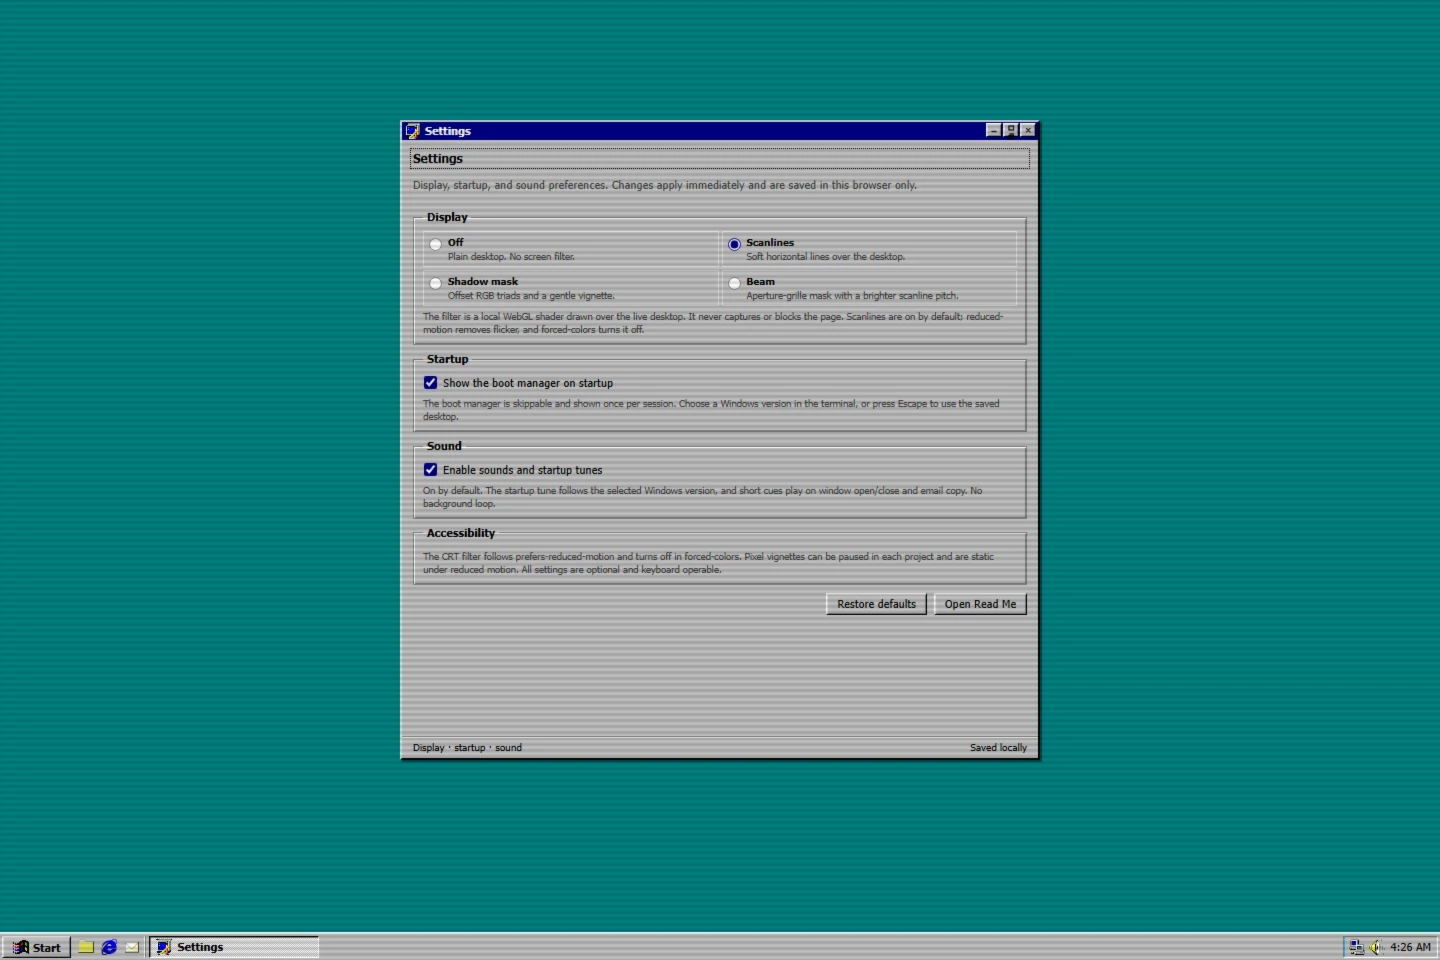
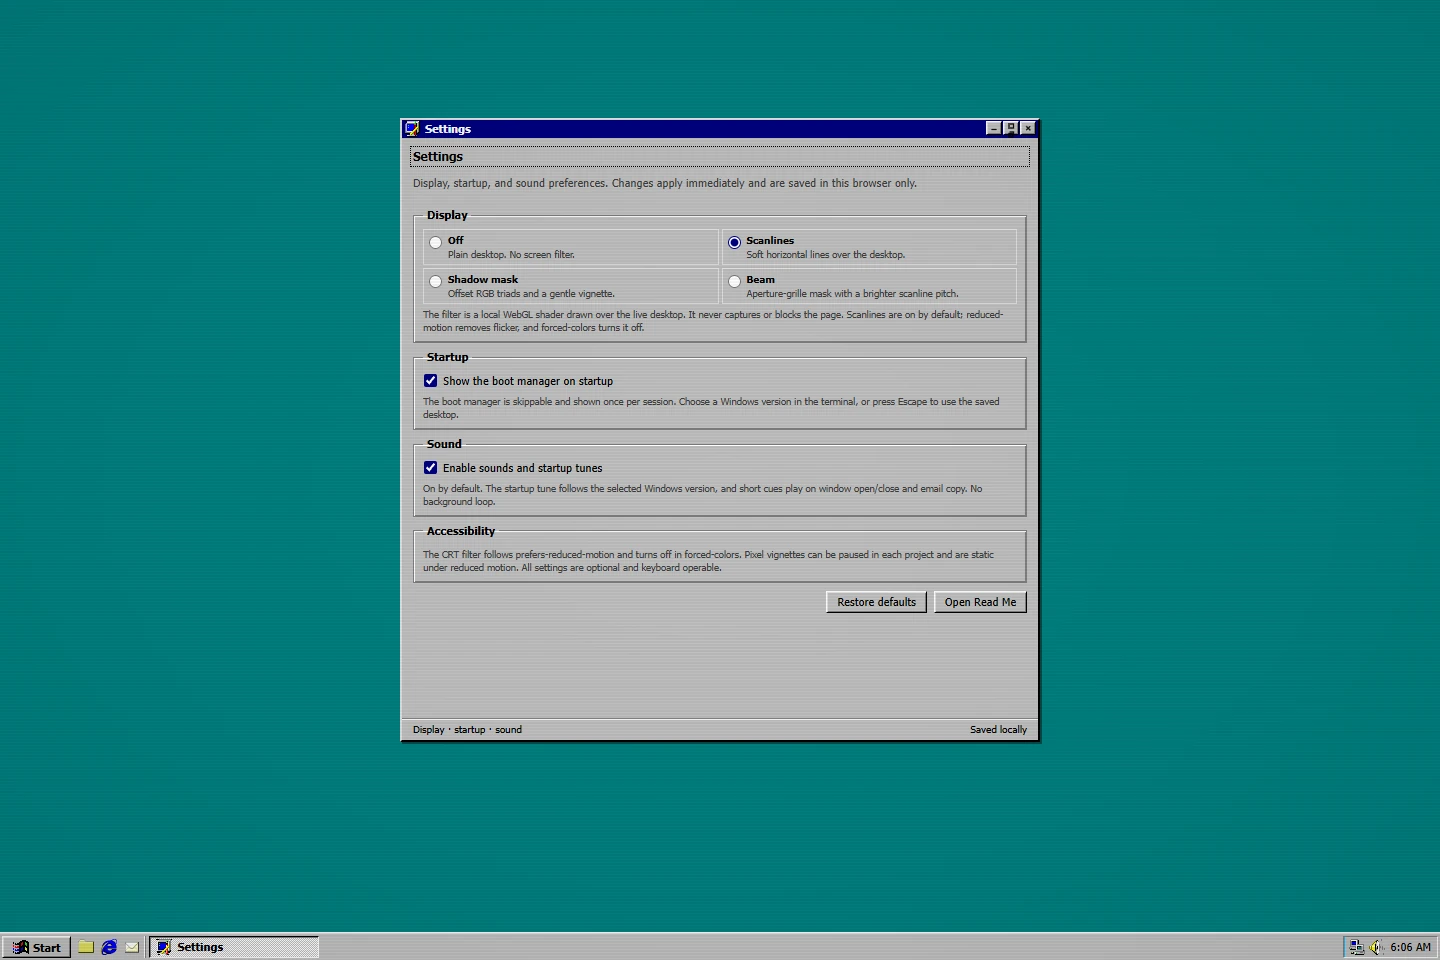
docs: lead with hero GIF and Windows-styled showcase
Move harness logos, badges, and navigation below the animated hero;
add packaged-runtime stills and an enlarged XP detail crop with lighter
scanlines; redraw badges as Classic, Luna, and Aero controls.

diff --git a/README.md b/README.md
@@ -5,6 +5,8 @@
   Windows Classic, XP Luna, and Windows 7 — complete original assets, semantic tokens, and accessible behavior.
 </p>
 
+![Windows desktop cycling through 95, 98, 2000, Me, XP, and 7 with the Settings window and default icons](docs/media/showcase/eras.gif)
+
 <p align="center">
   <img src="docs/media/harnesses/claude-code.svg" width="44" height="44" alt="Claude Code">
   <img src="docs/media/harnesses/codex.svg" width="44" height="44" alt="Codex">
@@ -20,23 +22,19 @@
 </p>
 
 <p align="center">
-  <img src="docs/media/badges/classic.svg" height="26" alt="Windows Classic 95, 98, and 2000">
-  <img src="docs/media/badges/xp.svg" height="26" alt="XP Luna blue, olive, and silver">
-  <img src="docs/media/badges/win7.svg" height="26" alt="Windows 7 Aero and Basic"><br>
-  <img src="docs/media/badges/offline.svg" height="26" alt="Offline and framework-free">
-  <img src="docs/media/badges/cc0.svg" height="26" alt="Packaged assets under CC0">
-  <img src="docs/media/badges/a11y.svg" height="26" alt="Accessible and keyboard-ready">
+  <img src="docs/media/badges/classic.svg" height="27" alt="Windows Classic 95, 98, and 2000">
+  <img src="docs/media/badges/xp.svg" height="27" alt="XP Luna blue, olive, and silver">
+  <img src="docs/media/badges/win7.svg" height="27" alt="Windows 7 Aero and Basic"><br>
+  <img src="docs/media/badges/offline.svg" height="27" alt="Offline and framework-free">
+  <img src="docs/media/badges/cc0.svg" height="27" alt="Packaged assets under CC0">
+  <img src="docs/media/badges/a11y.svg" height="27" alt="Accessible and keyboard-ready">
 </p>
 
 <p align="center">
   <sub><a href="#install">Install</a> · <a href="#themes">Themes</a> · <a href="#authentic-fidelity-showcase">Showcase</a> · <a href="#develop-and-validate">Develop</a> · <a href="#license">License</a></sub>
 </p>
 
-![Windows desktop cycling through 95, 98, 2000, Me, XP, and 7 with the Settings window and default icons](docs/media/showcase/eras.gif)
-
 A portable Agent Skill for designing, building, retrofitting, and reviewing retro Windows interfaces. It combines era-specific design guidance with complete original offline asset families, semantic tokens, a default Windows desktop mockup, startup-screen examples, an interactive gallery, and opt-in UI sound effects.
-
-The installable skill is original and offline. The showcase stills below come from a separate reference build that uses the portfolio's user-supplied Microsoft artwork; that media is documentation only and is not included in the package.
 
 ## Install
 
@@ -91,9 +89,9 @@ Every era includes:
 
 ## Authentic fidelity showcase
 
-The bundled neutral [desktop mockup](skills/retro-windows-ui/assets/desktop/index.html) remains the complete shell example that ships with the skill. The stills below come from the separate reference build used for this project's portfolio, which swaps in authentic Microsoft themes and wallpapers from the portfolio. They document the target fidelity; no Microsoft media is packaged.
+The reference stills, animated hero, and detail crop come from a docs-only build that uses the portfolio's user-supplied Microsoft artwork; no Microsoft media is packaged. The runtime examples below use only the original bundled assets.
 
-The hero keeps the XP desktop icon column visible. The six-era comparison captures hide desktop icons so the themes stay neutral; soft scanlines are applied throughout.
+The hero keeps the XP desktop icon column and stronger CRT treatment. The static comparisons hide desktop icons and use lighter scanlines for legibility.
 
 | Windows 95 · 1995 | Windows 98 · 1998 |
 | :---: | :---: |
@@ -103,15 +101,25 @@ The hero keeps the XP desktop icon column visible. The six-era comparison captur
 | **Windows XP · 2001** | **Windows 7 · 2009** |
 | [![Windows XP desktop with authentic Bliss wallpaper and Settings window](docs/media/showcase/xp-neutral.webp)](docs/media/showcase/xp-neutral.webp) | [![Windows 7 desktop with authentic wallpaper and Settings window](docs/media/showcase/win7.webp)](docs/media/showcase/win7.webp) |
 
-The skill keeps these eras distinct. Its installable runtime does not bundle Microsoft fonts, logos, extracted icons, wallpapers, or system sounds, and it is not affiliated with or endorsed by Microsoft.
+<p align="center">
+  <a href="docs/media/showcase/detail-xp.webp"><img src="docs/media/showcase/detail-xp.webp" width="720" alt="Enlarged XP Luna detail showing the Settings title bar, beveled fieldsets, radio buttons, action buttons, and taskbar"></a>
+</p>
 
-## Runtime boundaries
+<p align="center"><sub>XP Luna detail at 1.5×: title bar, beveled borders, controls, and taskbar.</sub></p>
 
-**Original by design.** The public runtime **does not** bundle Microsoft fonts, logos, extracted shell icons, wallpapers, boot screens, or system sounds. Microsoft-owned media cannot be redistributed in this public CC0 package. That is a rights constraint, not a lower-fidelity design choice: every era still ships the complete geometry, icon family, wallpaper, startup sequence, and behavior needed to build the interface.
+### Runtime examples
 
-The runtime also ships no portfolio template. Its full-shell example is the neutral [default Windows desktop mockup](skills/retro-windows-ui/assets/desktop/index.html); portfolio information architecture is covered as guidance in [references/portfolio-patterns.md](skills/retro-windows-ui/references/portfolio-patterns.md).
+Captured from the packaged `desktop`, `boot`, and `gallery` pages using only original assets.
 
-For an exact fan recreation, [references/asset-sourcing.md](skills/retro-windows-ui/references/asset-sourcing.md) documents how to import authentic assets from a user-supplied local reference, keep them out of the public package, and record the source and rights. The installable skill remains original and shippable.
+| Desktop + Start menu | Startup screen | Component gallery |
+| :---: | :---: | :---: |
+| <a href="docs/media/showcase/runtime-desktop.webp"><img src="docs/media/showcase/runtime-desktop.webp" width="288" alt="Packaged XP desktop with original icons and the Start menu open"></a> | <a href="docs/media/showcase/runtime-startup.webp"><img src="docs/media/showcase/runtime-startup.webp" width="288" alt="Packaged Windows 7 startup screen with an original loader"></a> | <a href="docs/media/showcase/runtime-gallery.webp"><img src="docs/media/showcase/runtime-gallery.webp" width="288" alt="Packaged component gallery showing buttons, fields, and selection states in Windows Classic"></a> |
+
+## Runtime scope
+
+The runtime ships no portfolio template. Its full-shell example is the neutral [default Windows desktop mockup](skills/retro-windows-ui/assets/desktop/index.html); portfolio information architecture is covered as guidance in [references/portfolio-patterns.md](skills/retro-windows-ui/references/portfolio-patterns.md).
+
+For an exact fan recreation, [references/asset-sourcing.md](skills/retro-windows-ui/references/asset-sourcing.md) documents how to import authentic assets from a user-supplied local reference, keep them out of the public package, and record the source and rights. The installable skill remains original and offline; full media terms are in [License](#license).
 
 ## Repository layout
 
@@ -172,9 +180,9 @@ On POSIX shells, use `.venv/bin/python`. Screenshots and results are written to 
 
 ## Asset and sound policy
 
-**Bundled assets.** All visual and audio assets are original and covered by `assets/LICENSE.txt`. `assets/manifest.json` records provenance, licensing, dimensions or audio metadata, byte size, and SHA-256. Unknown-provenance material is not shippable.
+**Bundled assets.** All bundled visual and audio assets are original and covered by `assets/LICENSE.txt`. `assets/manifest.json` records provenance, licensing, dimensions or audio metadata, byte size, and SHA-256. Unknown-provenance material is not shippable.
 
-**Generated shell set.** `tools/build_assets.py` deterministically produces 30 icons per theme, nine wallpapers including Classic 95/98/2000 alternates, six start/brand marks, six decoration sets, semantic tokens, and four synthesized cues. No Microsoft binary is bundled.
+**Generated shell set.** `tools/build_assets.py` deterministically produces 30 icons per theme, nine wallpapers including Classic 95/98/2000 alternates, six start/brand marks, six decoration sets, semantic tokens, and four synthesized cues.
 
 **Reference imports.** For a user-supplied authentic reference, copy artwork into a project without touching the public runtime and record its provenance:
 
@@ -192,8 +200,9 @@ The importer never downloads anything, skips font files, refuses symlinks, and r
 ## License
 
 - **Code and documentation:** MIT.
-- **Original bundled assets:** CC0-1.0; see `skills/retro-windows-ui/assets/LICENSE.txt`.
-- **Showcase stills:** Microsoft-derived reference artwork, documentation only; not part of the installable skill or the CC0 asset license.
+- **Original bundled runtime assets:** CC0-1.0; see `skills/retro-windows-ui/assets/LICENSE.txt`.
+- **Runtime example screenshots:** original bundled assets, CC0-1.0, documentation only.
+- **Reference showcase stills, animated hero, and detail crop:** Microsoft-derived reference artwork, documentation only; not part of the installable skill or the CC0 asset license. The package bundles no Microsoft fonts, icons, wallpapers, boot screens, or system sounds.
 - **Harness icons:** adapted from [LobeHub Icons](https://github.com/lobehub/lobe-icons) under MIT; see [attribution](docs/media/harnesses/ATTRIBUTION.md). They remain trademarks of their respective owners, are documentation only, and are excluded from the packaged skill.
 - **Historical sources:** linked references under their respective terms.
 
